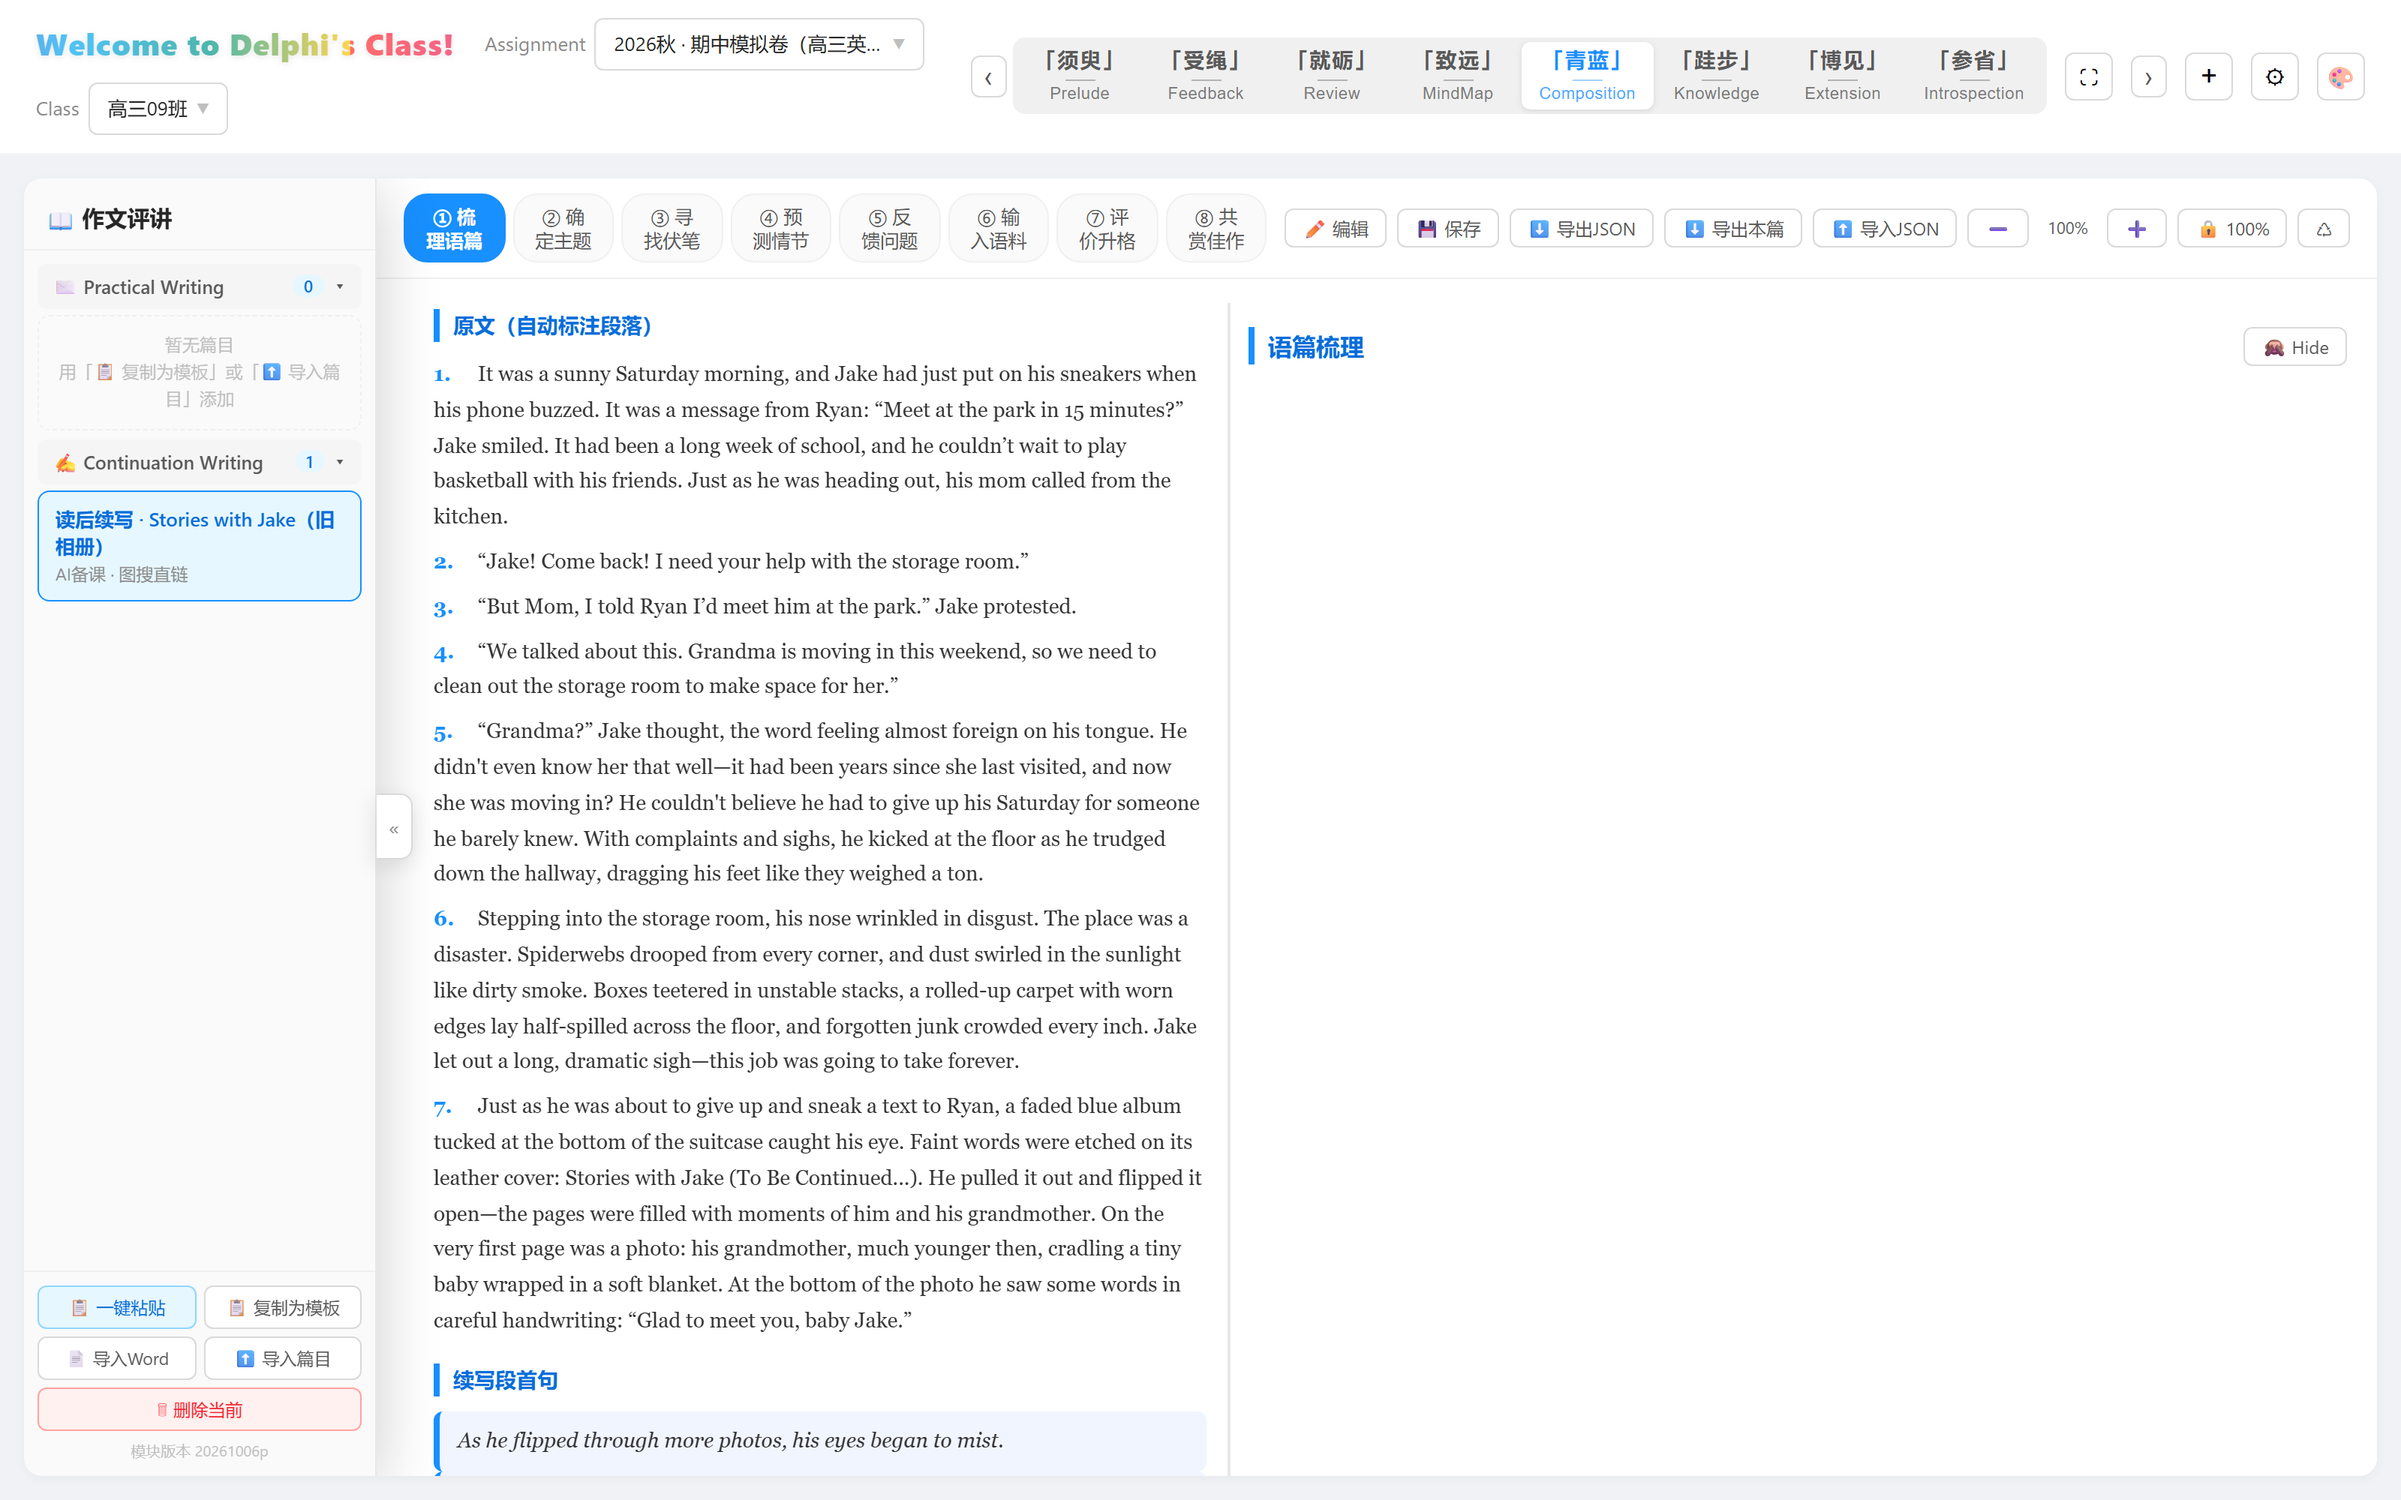
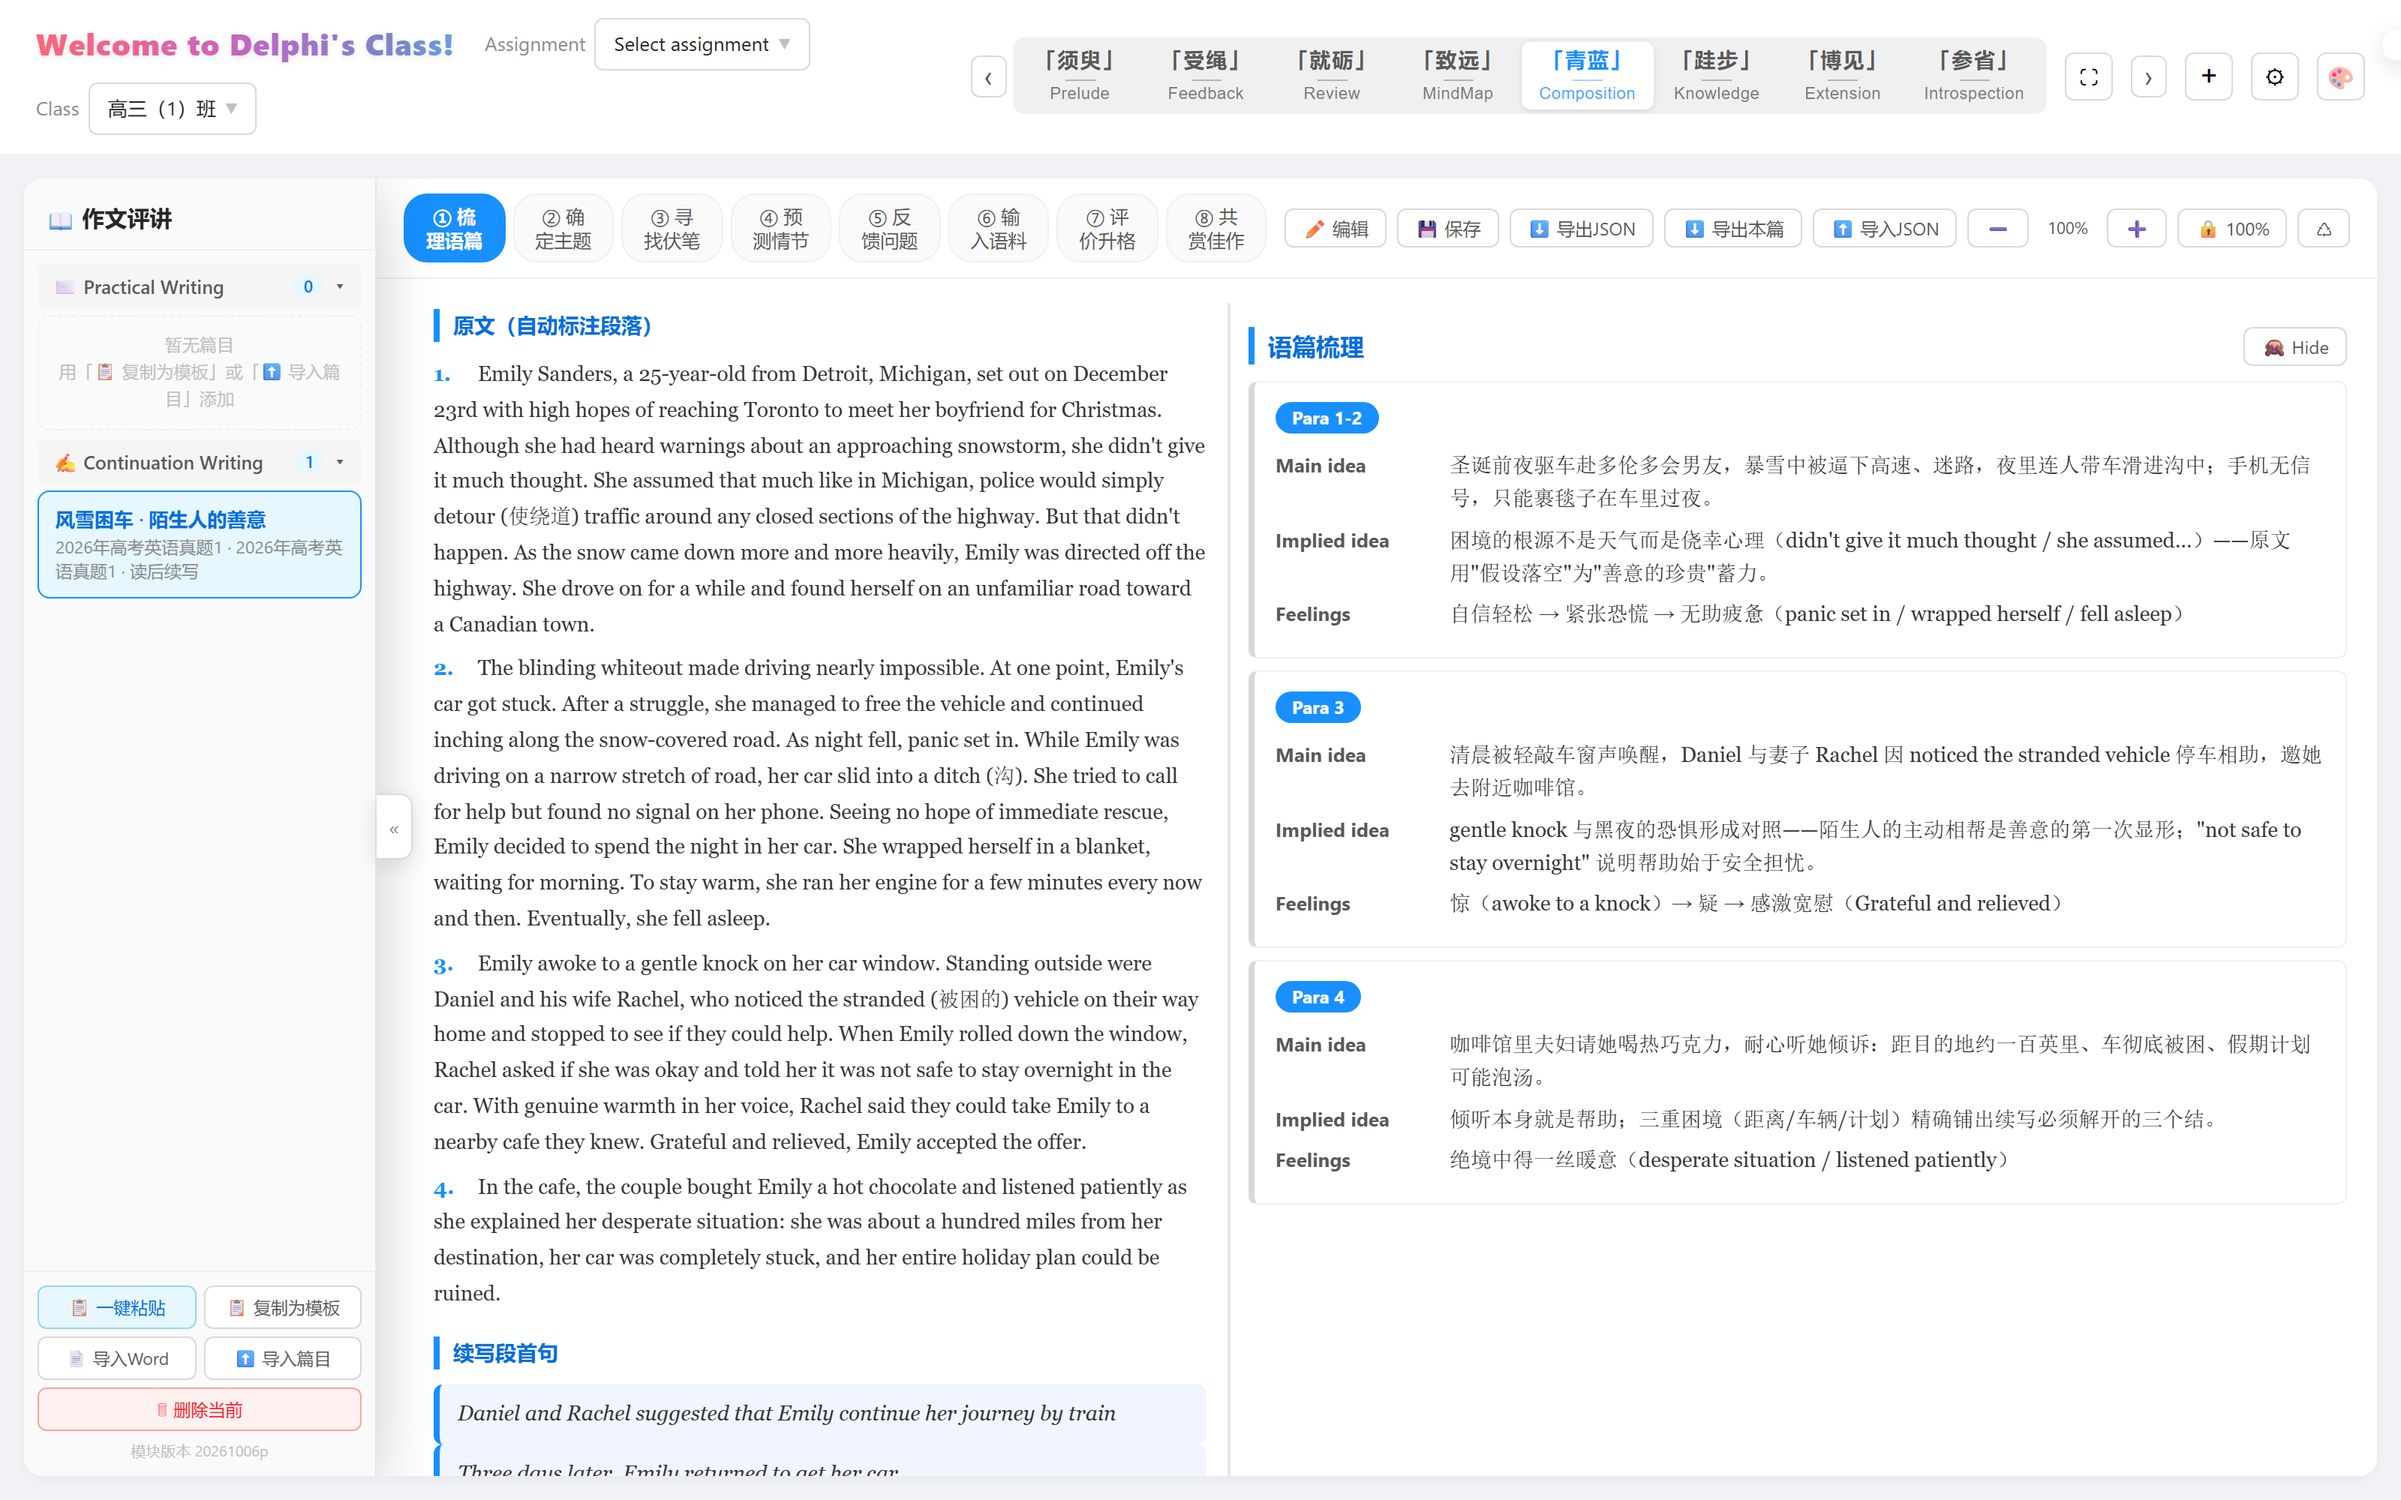
README ⑤青蓝：换用真题样本的八步评讲真实截图，补充评价升格五维雷达图与样本复现指引

diff --git a/README.md b/README.md
@@ -102,7 +102,11 @@ Excel 答题明细一键导入；按分数排序自动颁发 🥇🥈🥉 奖牌
 
 <img src="docs/screenshots/05-composition.png" width="88%">
 
-读后续写 / 应用文**八步评讲框架**：核对语篇 → 确定主题 → 寻找伏笔 → 预测情节 → 反熵问题 → 输入语料（Show, not tell 图文语料库）→ 评价升格 → 共赏佳作。试卷 PDF + 答案 PDF 导入后**自动识别原文、段首句与范文**并分篇建档。
+读后续写 / 应用文**八步评讲框架**：① 梳理语篇 → ② 确定主题 → ③ 寻找伏笔 → ④ 预测情节 → ⑤ 反馈问题 → ⑥ 输入语料（Show, not tell 图文语料库）→ ⑦ 评价升格 → ⑧ 共赏佳作。试卷 PDF + 答案 PDF 导入后**自动识别原文、段首句与范文**并分篇建档；导入板块 JSON（如 [`samples/样本卷-Composition-读后续写.json`](samples/样本卷-Composition-读后续写.json)）即复现上图。
+
+<img src="docs/screenshots/05c-composition-upgrade.png" width="88%">
+
+⑦ 评价升格内置**五维雷达评价**（情节合理 / 内容完整 / 语言丰富 / 语法规范 / 衔接顺畅）与**综合定档**：打星自动推算档位，给出"上档点"升格建议——先评天地，再指升路。
 
 ### ⑥ 「跬步」Knowledge —— 知识沉淀
 
